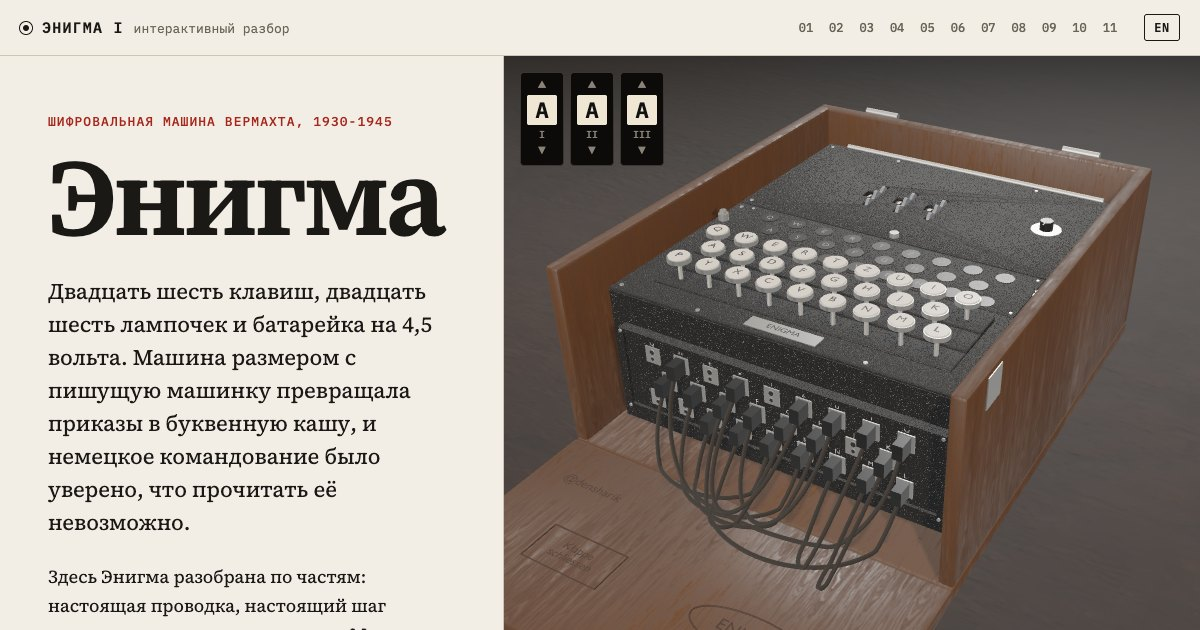
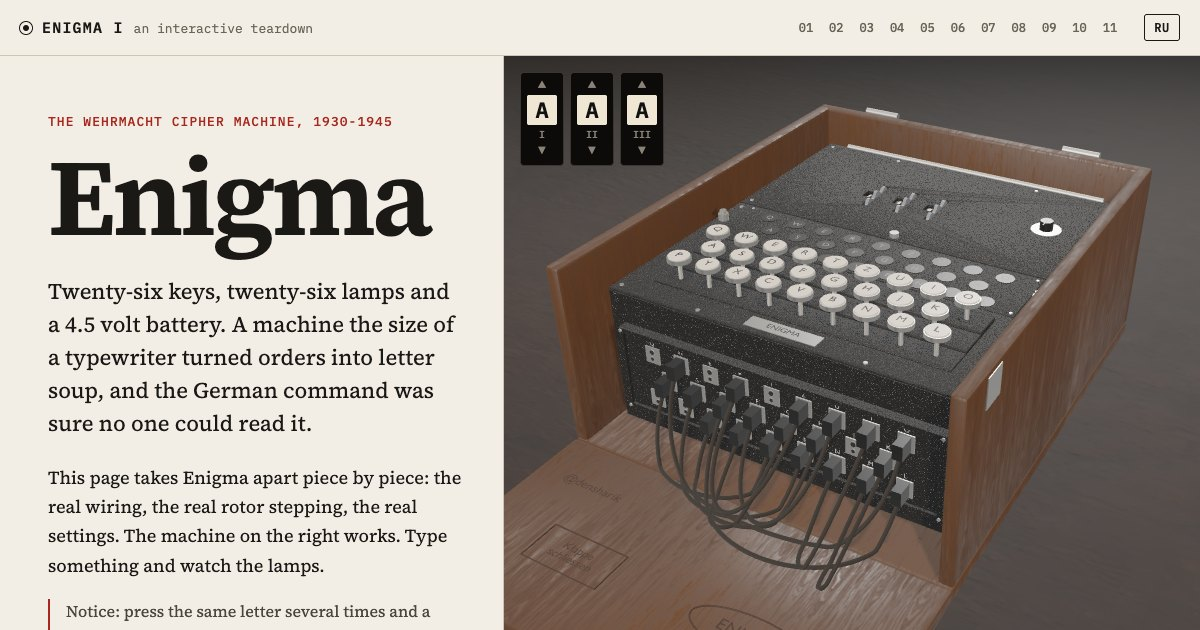
English by default, English link preview

diff --git a/index.html b/index.html
@@ -1,14 +1,14 @@
 <!doctype html>
-<html lang="ru">
+<html lang="en">
 <head>
 <meta charset="utf-8">
 <meta name="viewport" content="width=device-width, initial-scale=1, viewport-fit=cover">
-<title>Энигма: как устроена шифровальная машина</title>
-<meta name="description" content="Интерактивный разбор шифровальной машины Энигма I: 3D-модель, настоящая проводка, шаг роторов, взлом.">
+<title>Enigma: how the cipher machine works</title>
+<meta name="description" content="An interactive teardown of the Enigma I cipher machine: a working 3D model, the real wiring, rotor stepping and how it was broken.">
 <meta name="theme-color" content="#f2eee6">
 <meta property="og:type" content="website">
-<meta property="og:title" content="Энигма: как устроена шифровальная машина">
-<meta property="og:description" content="Интерактивный разбор Энигмы I: 3D-модель, настоящая проводка, шаг роторов, симулятор и история взлома. RU / EN.">
+<meta property="og:title" content="Enigma: how the cipher machine works">
+<meta property="og:description" content="An interactive teardown of Enigma I: a working 3D model, the real wiring, rotor stepping, a simulator and how it was broken. EN / RU.">
 <meta property="og:image" content="https://densharik.github.io/enigma/og.jpg">
 <meta property="og:image:width" content="1200">
 <meta property="og:image:height" content="630">

diff --git a/src/main.js b/src/main.js
@@ -35,7 +35,8 @@ const DIRECT = {
   sim: { view: 'keyboard' },
 }
 
-let lang = store.get('lang') || ((navigator.language || 'ru').toLowerCase().startsWith('ru') ? 'ru' : 'en')
+// English by default; a language picked with the switch is remembered
+let lang = store.get('lang') || 'en'
 const m = new Machine()
 const t = () => UI[lang]
 let disposers = []
